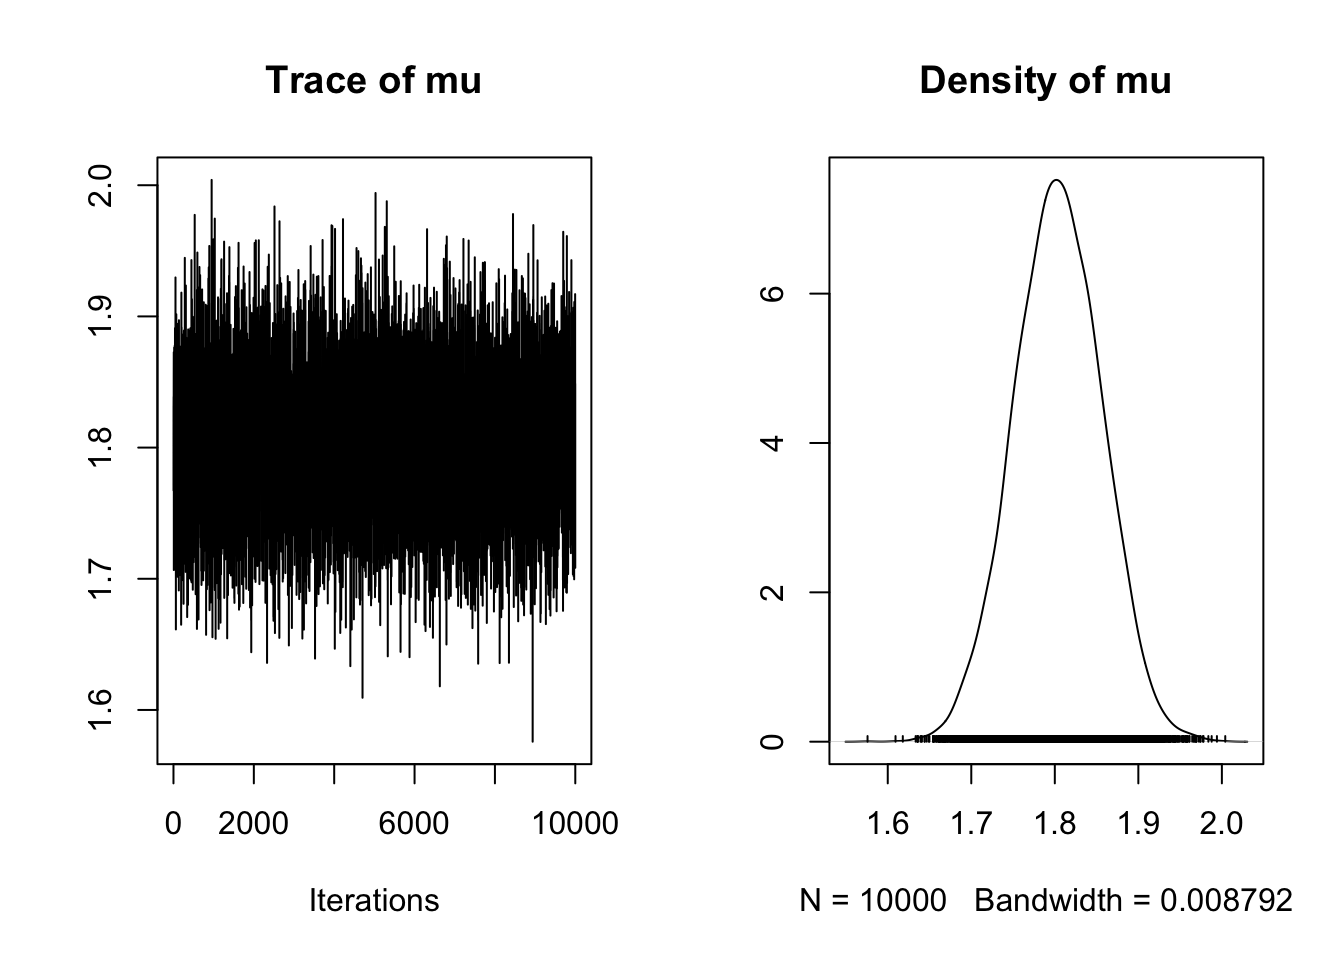
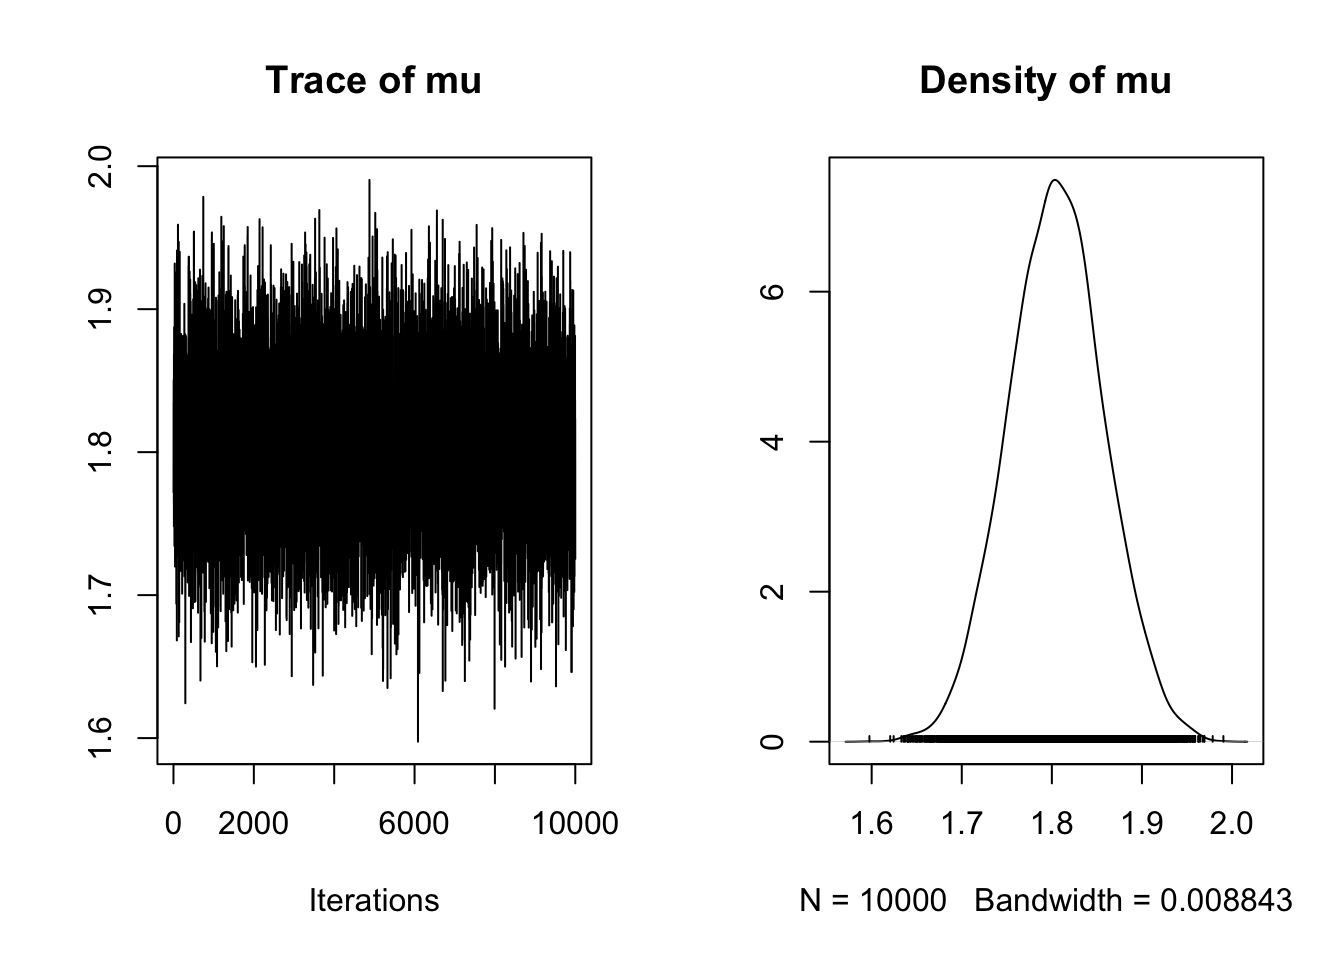
another test

diff --git a/docs/VB_Bayes_activity2.html b/docs/VB_Bayes_activity2.html
@@ -463,12 +463,12 @@ window.Quarto = {
 <div class="sourceCode cell-code" id="cb30"><pre class="sourceCode r code-with-copy"><code class="sourceCode r"><span id="cb30-1"><a href="#cb30-1" aria-hidden="true" tabindex="-1"></a><span class="fu">head</span>(mcmc.out)</span></code><button title="Copy to Clipboard" class="code-copy-button"><i class="bi"></i></button></pre></div>
 <div class="cell-output cell-output-stdout">
 <pre><code>           mu
-[1,] 1.721479
-[2,] 1.739015
-[3,] 1.738126
-[4,] 1.822810
-[5,] 1.762023
-[6,] 1.825605</code></pre>
+[1,] 1.767081
+[2,] 1.892953
+[3,] 1.802794
+[4,] 1.768544
+[5,] 1.818668
+[6,] 1.841609</code></pre>
 </div>
 </div>
 <div class="cell" data-layout-align="center">
@@ -539,12 +539,12 @@ window.Quarto = {
 <div class="sourceCode cell-code" id="cb47"><pre class="sourceCode r code-with-copy"><code class="sourceCode r"><span id="cb47-1"><a href="#cb47-1" aria-hidden="true" tabindex="-1"></a><span class="fu">head</span>(mcmc.out<span class="sc">$</span>chain1)</span></code><button title="Copy to Clipboard" class="code-copy-button"><i class="bi"></i></button></pre></div>
 <div class="cell-output cell-output-stdout">
 <pre><code>           mu
-[1,] 1.767302
-[2,] 1.831650
-[3,] 1.838704
-[4,] 1.807694
-[5,] 1.822508
-[6,] 1.857017</code></pre>
+[1,] 1.771981
+[2,] 1.783765
+[3,] 1.834729
+[4,] 1.825356
+[5,] 1.850481
+[6,] 1.781719</code></pre>
 </div>
 </div>
 <div class="cell" data-layout-align="center">
@@ -585,12 +585,12 @@ Sample size per chain = 10000
    plus standard error of the mean:
 
           Mean             SD       Naive SE Time-series SE 
-     1.8039445      0.0523320      0.0005233      0.0005233 
+     1.8050446      0.0529225      0.0005292      0.0005292 
 
 2. Quantiles for each variable:
 
  2.5%   25%   50%   75% 97.5% 
-1.701 1.768 1.804 1.840 1.905 </code></pre>
+1.702 1.769 1.805 1.840 1.910 </code></pre>
 </div>
 </div>
 <p>Let’s compare these draws to what we got with our analytic solution:</p>
@@ -746,12 +746,12 @@ Sample size per chain = 10000
 <div class="sourceCode cell-code" id="cb79"><pre class="sourceCode r code-with-copy"><code class="sourceCode r"><span id="cb79-1"><a href="#cb79-1" aria-hidden="true" tabindex="-1"></a><span class="fu">head</span>(mcmc.out2<span class="sc">$</span>chain1)</span></code><button title="Copy to Clipboard" class="code-copy-button"><i class="bi"></i></button></pre></div>
 <div class="cell-output cell-output-stdout">
 <pre><code>           mu         s2      tau
-[1,] 1.808496 0.01109125 90.16114
-[2,] 1.794911 0.01148990 87.03293
-[3,] 1.794911 0.01148990 87.03293
-[4,] 1.794911 0.01020260 98.01426
-[5,] 1.794911 0.01020260 98.01426
-[6,] 1.772257 0.01403102 71.27067</code></pre>
+[1,] 1.744812 0.04887539 20.46019
+[2,] 1.728132 0.04887539 20.46019
+[3,] 1.728132 0.04887539 20.46019
+[4,] 1.781208 0.04887539 20.46019
+[5,] 1.754292 0.04887539 20.46019
+[6,] 1.723685 0.01605952 62.26834</code></pre>
 </div>
 <div class="sourceCode cell-code" id="cb81"><pre class="sourceCode r code-with-copy"><code class="sourceCode r"><span id="cb81-1"><a href="#cb81-1" aria-hidden="true" tabindex="-1"></a>samp2<span class="ot">&lt;-</span><span class="fu">as.mcmc</span>(mcmc.out2<span class="sc">$</span>chain1)</span></code><button title="Copy to Clipboard" class="code-copy-button"><i class="bi"></i></button></pre></div>
 </div>
@@ -777,17 +777,17 @@ Sample size per chain = 10000
 1. Empirical mean and standard deviation for each variable,
    plus standard error of the mean:
 
-        Mean       SD  Naive SE Time-series SE
-mu   1.80637  0.05235 0.0005235      0.0011577
-s2   0.02543  0.01657 0.0001657      0.0003911
-tau 51.96635 25.83741 0.2583741      0.6767042
+       Mean       SD  Naive SE Time-series SE
+mu   1.8048  0.05215 0.0005215      0.0011398
+s2   0.0256  0.01736 0.0001736      0.0004131
+tau 52.6827 27.87965 0.2787965      0.8409214
 
 2. Quantiles for each variable:
 
-        2.5%      25%    50%      75%     97.5%
-mu   1.70426  1.77240  1.806  1.83893   1.91792
-s2   0.00896  0.01499  0.021  0.03055   0.06666
-tau 15.00182 32.73685 47.618 66.69136 111.60536</code></pre>
+         2.5%      25%      50%      75%     97.5%
+mu   1.698334  1.77350  1.80529  1.83791   1.91296
+s2   0.008272  0.01481  0.02105  0.03067   0.06978
+tau 14.329997 32.60857 47.49925 67.50659 120.88901</code></pre>
 </div>
 </div>
 <p>Now we plot each with their priors:</p>

diff --git a/docs/Stats_review.html b/docs/Stats_review.html
@@ -341,7 +341,7 @@ window.Quarto = {
 <li>discrete (numbers of items or successes)</li>
 <li>continuous (heights, times, weights)</li>
 </ul>
-<p>We usually use capital letters – e.g.&nbsp;<span class="math inline">X</span>, <span class="math inline">Y</span>, sometimes with bold or with subscripts – to denote the RVs. In contrast we use lower case letters, e.g.&nbsp;<span class="math inline">x</span>, <span class="math inline">y</span>, <span class="math inline">k</span>, to denote the values that the RV takes. For instance, lets say that the heights of the woman at Virginia Tech are the RV, <span class="math inline">X</span>, and <span class="math inline">X</span> has a normal distribution with mean 62 inches and variance 6<span class="math inline">^2</span>, i.e., <span class="math inline">X \sim \mathrm{N}(62,6^2)</span> distribution. Say we then observe the heights of 3 individuals drawn from this distribution – we would write this as: <span class="math inline">x=(</span> 71, 65, 64.2 <span class="math inline">)</span>.</p>
+<p>We usually use capital letters – e.g.&nbsp;<span class="math inline">X</span>, <span class="math inline">Y</span>, sometimes with bold or with subscripts – to denote the RVs. In contrast we use lower case letters, e.g.&nbsp;<span class="math inline">x</span>, <span class="math inline">y</span>, <span class="math inline">k</span>, to denote the values that the RV takes. For instance, lets say that the heights of the woman at Virginia Tech are the RV, <span class="math inline">X</span>, and <span class="math inline">X</span> has a normal distribution with mean 62 inches and variance 6<span class="math inline">^2</span>, i.e., <span class="math inline">X \sim \mathrm{N}(62,6^2)</span> distribution. Say we then observe the heights of 3 individuals drawn from this distribution – we would write this as: <span class="math inline">x=(</span> 61.4, 57.5, 64.5 <span class="math inline">)</span>.</p>
 <p><br> <br> </p>
 </section>
 <section id="probability-distributions" class="level1">
@@ -565,7 +565,7 @@ f(x)=\frac{1}{\sqrt{2\pi\sigma^2}}\exp{\left(-\frac{(x-\mu)^2}{2\sigma^2}\right)
 <div class="cell">
 <div class="sourceCode cell-code" id="cb3"><pre class="sourceCode r code-with-copy"><code class="sourceCode r"><span id="cb3-1"><a href="#cb3-1" aria-hidden="true" tabindex="-1"></a><span class="fu">rnorm</span>(<span class="dv">3</span>, <span class="at">mean=</span><span class="dv">0</span>, <span class="at">sd=</span><span class="dv">1</span>) <span class="do">## random draws</span></span></code><button title="Copy to Clipboard" class="code-copy-button"><i class="bi"></i></button></pre></div>
 <div class="cell-output cell-output-stdout">
-<pre><code>[1] -1.3560686  1.5075647  0.8829592</code></pre>
+<pre><code>[1] -0.3640331  1.8345323  1.3097952</code></pre>
 </div>
 </div>
 <div class="cell">

diff --git a/docs/data_wrangling.html b/docs/data_wrangling.html
@@ -2174,8 +2174,8 @@ Tip
 <div class="cell">
 <div class="sourceCode cell-code" id="cb91"><pre class="sourceCode r code-with-copy"><code class="sourceCode r"><span id="cb91-1"><a href="#cb91-1" aria-hidden="true" tabindex="-1"></a>MySample</span></code><button title="Copy to Clipboard" class="code-copy-button"><i class="bi"></i></button></pre></div>
 <div class="cell-output cell-output-stdout">
-<pre><code> [1]  0.2559906  0.6002950 -0.1991398 -0.0603272 -0.9000662 -0.2149816
- [7] -1.0039066  1.4176326  1.8460470  0.9415813</code></pre>
+<pre><code> [1]  2.78472224 -2.01117129 -2.62783267  0.06186333  2.10523440 -1.04054033
+ [7] -0.40077035 -0.02193599 -1.33010849 -0.34840650</code></pre>
 </div>
 </div>
 <div class="cell">

diff --git a/docs/about.html b/docs/about.html
@@ -7,7 +7,7 @@
 <meta name="viewport" content="width=device-width, initial-scale=1.0, user-scalable=yes">
 
 
-<title>About xxxx the VectorByte Training Materials 2023</title>
+<title>About the VectorByte Training Materials 2023</title>
 <style>
 code{white-space: pre-wrap;}
 span.smallcaps{font-variant: small-caps;}
@@ -135,7 +135,7 @@ ul.task-list li input[type="checkbox"] {
 
 <header id="title-block-header" class="quarto-title-block default">
 <div class="quarto-title">
-<h1 class="title">About xxxx the VectorByte Training Materials 2023</h1>
+<h1 class="title">About the VectorByte Training Materials 2023</h1>
 </div>
 
 
